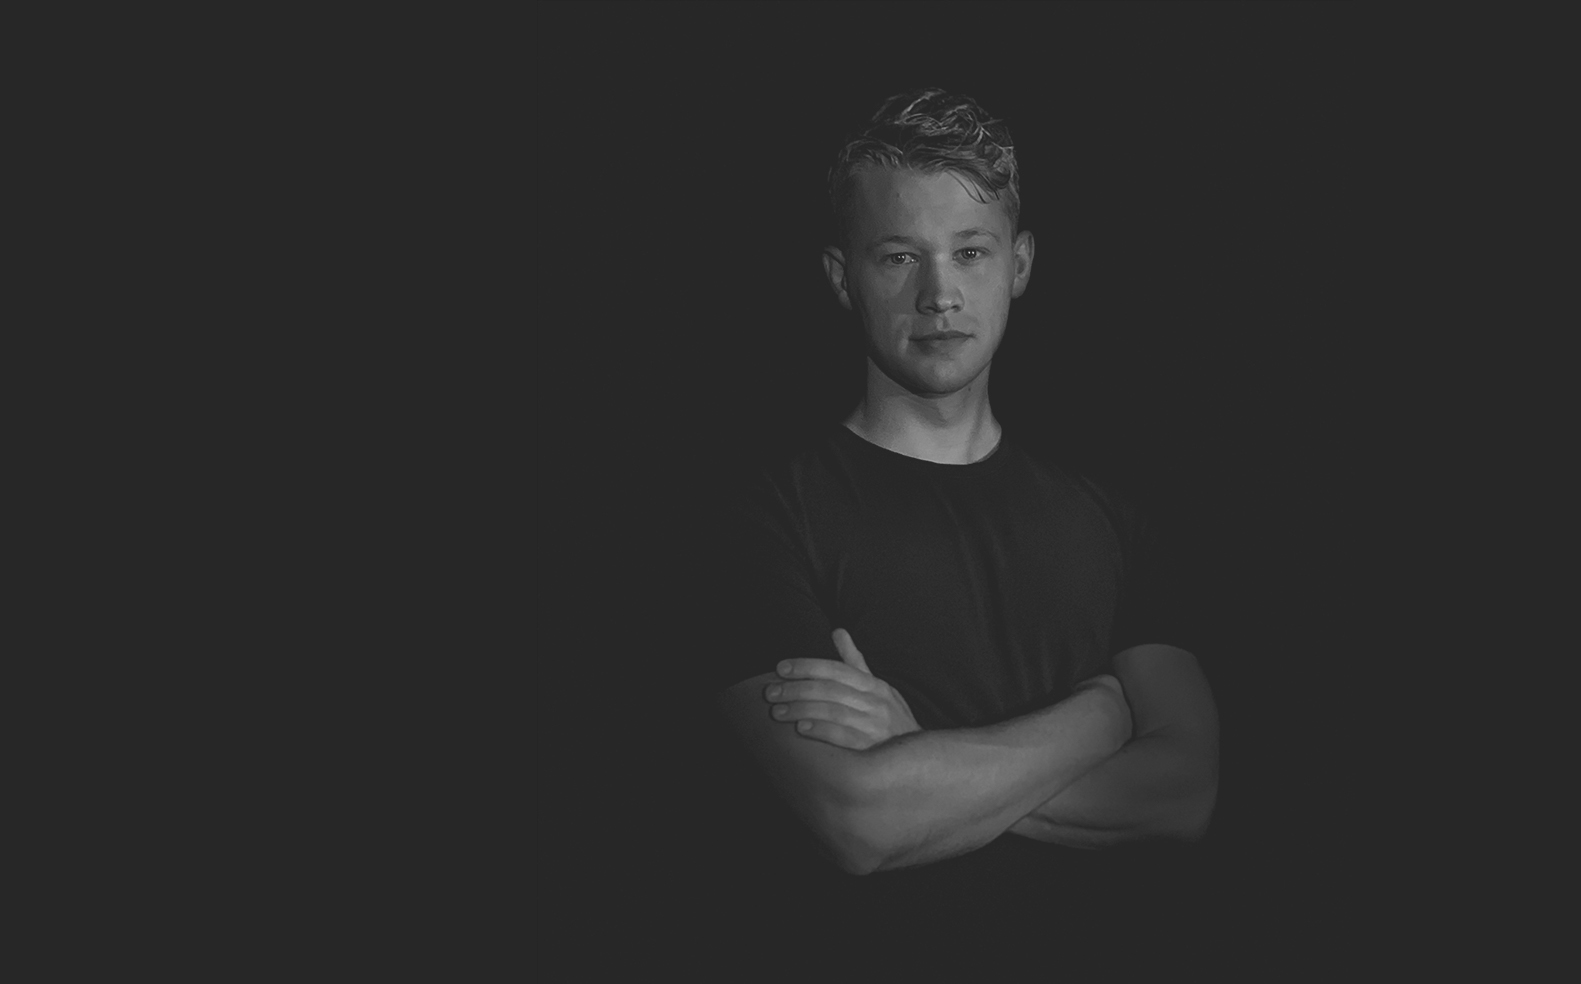
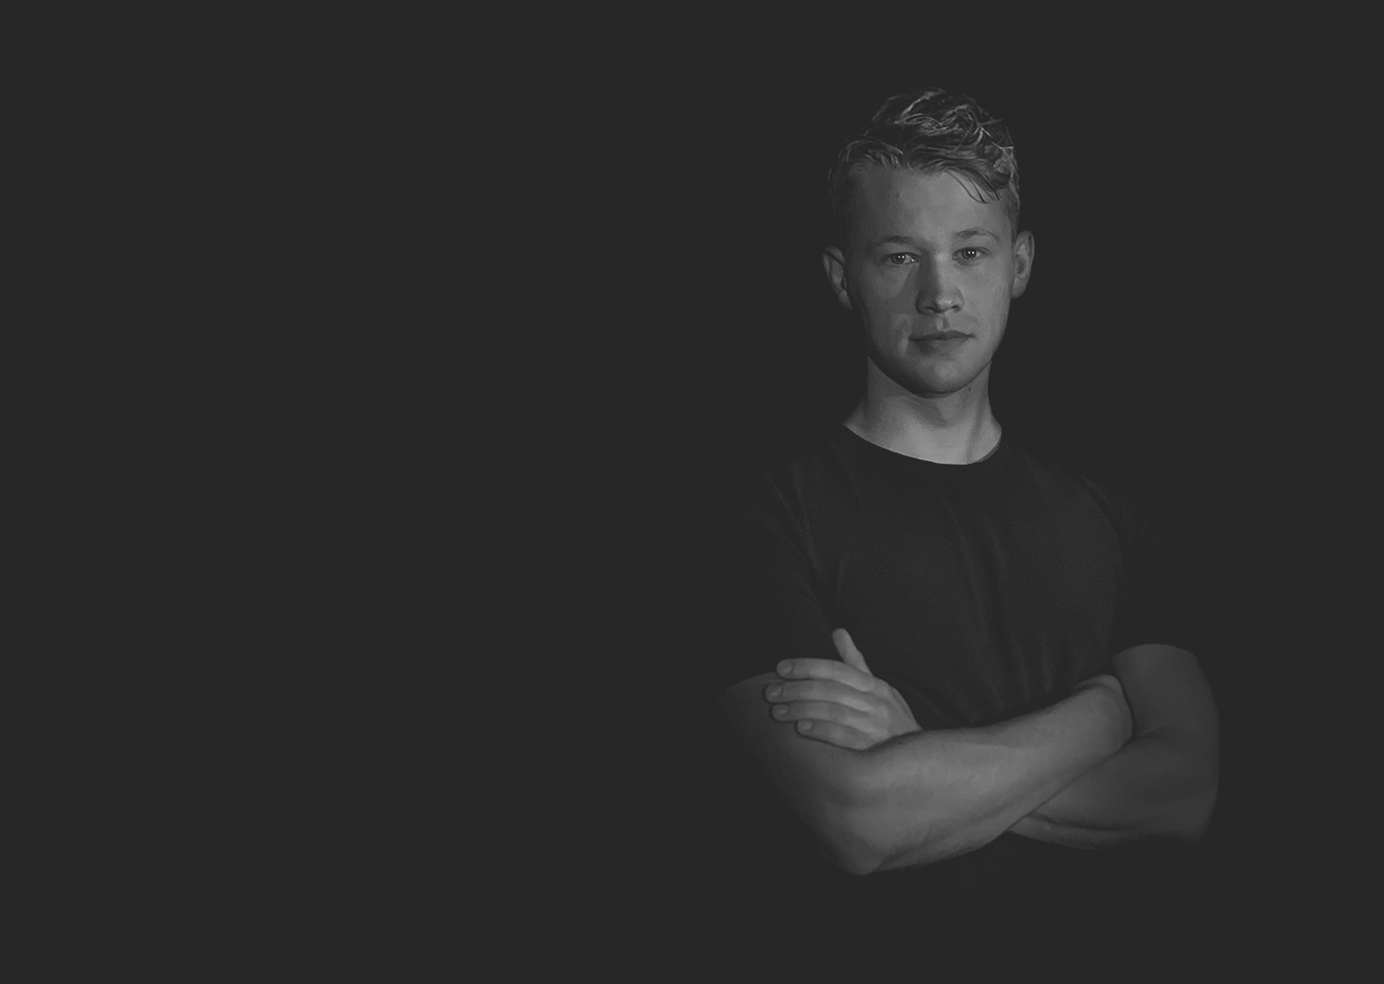
Styling navbar & home image
changed the image on the home page to fit better. Styled the active menu item and removed home menu item

Changed region(s): [[0.5282, 0.0915, 0.7457, 0.4878], [0.466, 0.6402, 0.8078, 0.8841]]

diff --git a/src/components/Nav.js b/src/components/Nav.js
@@ -7,13 +7,13 @@ function Nav() {
             <div className="full-row">
                 <div className="container">
                     <div className='logo'>
-                        <h2>Lars van Boven</h2>
+                        <NavLink to="/"><h2>Lars van Boven</h2></NavLink>
                     </div>
                     <div className="menu">
-                        <NavLink className="menu-item" to='/' activeClassName="selected">Home</NavLink>
-                        <NavLink className="menu-item" to='about' activeClassName="selected">About</NavLink>
-                        <NavLink className="menu-item" to='skills'activeClassName="selected">Skills</NavLink>
-                        <NavLink className="menu-item" to='mywork'activeClassName="selected">MyWork</NavLink>
+                        
+                        <NavLink className="menu-item" to='/about' activeClassName="selected">About</NavLink>
+                        <NavLink className="menu-item" to='/skills'activeClassName="selected">Skills</NavLink>
+                        <NavLink className="menu-item" to='/portfolio'activeClassName="selected">Portfolio</NavLink>
                     </div>
                 </div>
             </div>

diff --git a/src/style/nav.scss b/src/style/nav.scss
@@ -39,7 +39,17 @@
                         text-transform: $transform;
 
                         &.selected{
-                            color: $tertiary-color;
+                            position: relative;
+                            &::after{
+                                content: '';
+                                height: 3px;
+                                background-color: $tertiary-color;
+                                width: 100%;
+                                position: absolute;
+                                bottom: -5px;
+                                left: 0;
+                                transform: translateX(0);
+                            }
                         }
 
                         &:nth-first-child(){
